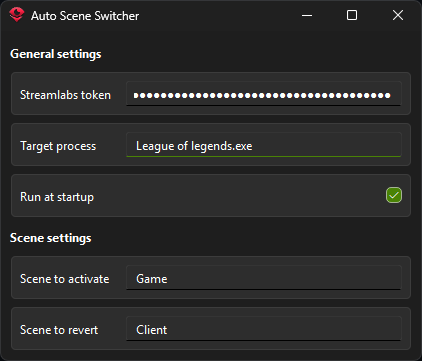
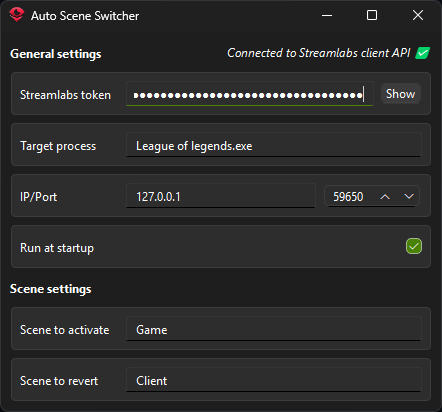
readme

diff --git a/README.md b/README.md
@@ -26,7 +26,9 @@ Ex: `League of legends.exe`
 
 - Set IP/Port
 
-If you are using Streamlabs on the same machine as AutoSceneSwitcher, do not modify them.  
+In most case you should not modify them.  
+Only useful if you're running Streamlabs and AutoSceneSwitcher on different devices.  
+
 Defaults:  
 `IP`: 127.0.0.1  
 `port`: 59650
